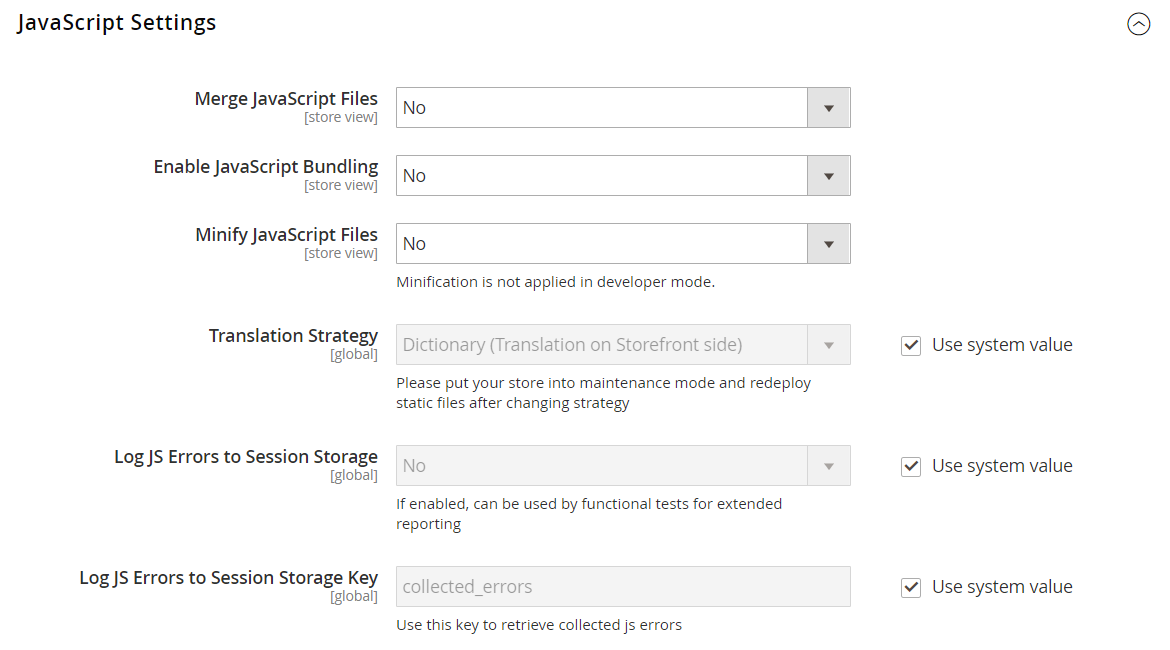
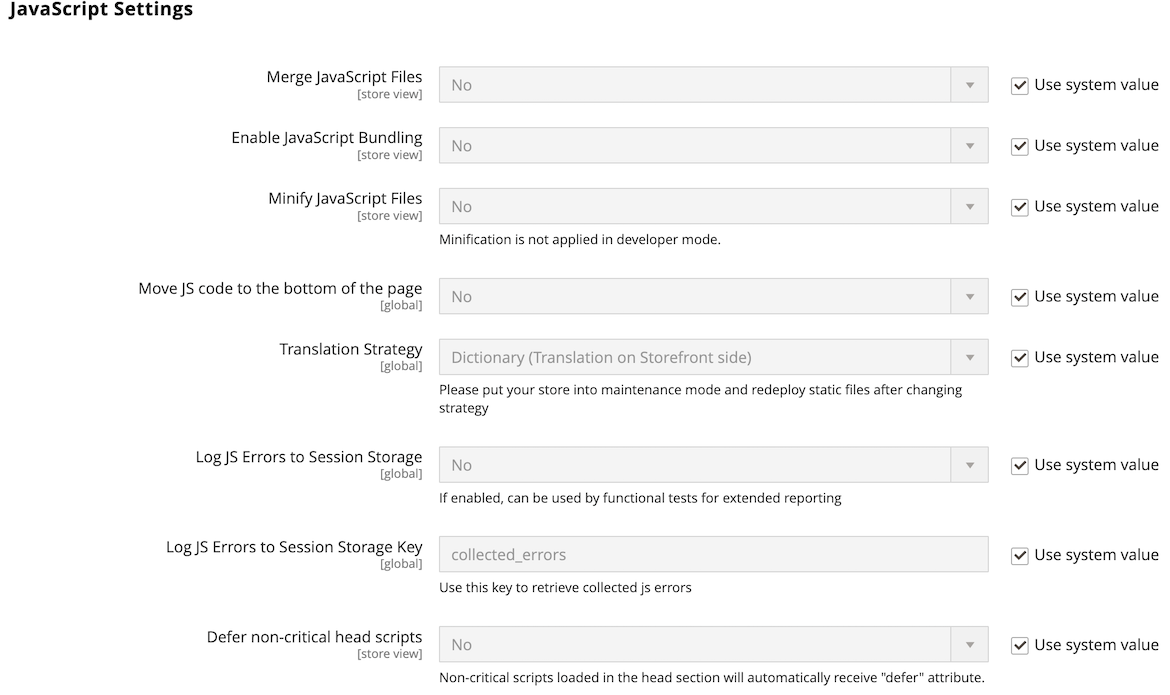
ACP2E-4343: [Documentation] New developer setting to be added to Advanced settings documentation

diff --git a/help/configuration-reference/advanced/developer.md b/help/configuration-reference/advanced/developer.md
@@ -83,15 +83,16 @@ For more information about changing these settings, see [Translate inline](../..
 
 For more information about changing these settings, see [Optimizing resource files](../../systems/developer-tools.md#optimizing-resource-files) in the _Admin Systems Guide_.
 
-|Field|[Scope](../../getting-started/websites-stores-views.md#scope-settings)|Description|
-|--- |--- |--- |
-|[!UICONTROL Merge JavaScript Files]|Store View|Merges multiple JavaScript files into a single file to improve page load time.|
-|[!UICONTROL Enable JavaScript Bundling]|Store View|Determines if multiple JavaScript files can be bundled into one file. Options: `Yes` / `No`|
-|[!UICONTROL Minify JavaScript Files]|Store View|Removes unnecessary characters, spaces, and indentation to reduce the size of the code.|
-|[!UICONTROL Move JS code to the bottom of the page]|Global|If enabled, moves the JS code to the bottom of the page. Options: `Yes` / `No`|
-|[!UICONTROL Translation Strategy]|Global|Determines the translation methodology that is used by the system. Options: <br/>**`Dictionary`** - Translation on storefront side. <br/>**`Embedded`** - Translation on Admin side.|
-|[!UICONTROL Log JS Errors to Session Storage]|Global|If enabled, can be used by functional tests for reporting. Options: `Yes` / `No`|
-|[!UICONTROL Log JS Errors to Session Storage Key]|Global|Identifies the key that is used to retrieve collected js errors.|
+|Field|[Scope](../../getting-started/websites-stores-views.md#scope-settings)| Description                                                                                                                                                                          |
+|--- |--- |--------------------------------------------------------------------------------------------------------------------------------------------------------------------------------------|
+|[!UICONTROL Merge JavaScript Files]|Store View| Merges multiple JavaScript files into a single file to improve page load time.                                                                                                       |
+|[!UICONTROL Enable JavaScript Bundling]|Store View| Determines if multiple JavaScript files can be bundled into one file. Options: `Yes` / `No`                                                                                          |
+|[!UICONTROL Minify JavaScript Files]|Store View| Removes unnecessary characters, spaces, and indentation to reduce the size of the code.                                                                                              |
+|[!UICONTROL Move JS code to the bottom of the page]|Global| If enabled, moves the JS code to the bottom of the page. Options: `Yes` / `No`                                                                                                       |
+|[!UICONTROL Translation Strategy]|Global| Determines the translation methodology that is used by the system. Options: <br/>**`Dictionary`** - Translation on storefront side. <br/>**`Embedded`** - Translation on Admin side. |
+|[!UICONTROL Log JS Errors to Session Storage]|Global| If enabled, can be used by functional tests for reporting. Options: `Yes` / `No`                                                                                                     |
+|[!UICONTROL Log JS Errors to Session Storage Key]|Global| Identifies the key that is used to retrieve collected js errors.                                                                                                                     |
+|[!UICONTROL Defer non-critical head scripts]|Store View| If enabled, it will automatically add a `defer` attribute to all non-critical scripts that are loaded through the page `head` section.                                               |
 
 {style="table-layout:auto"}
 
